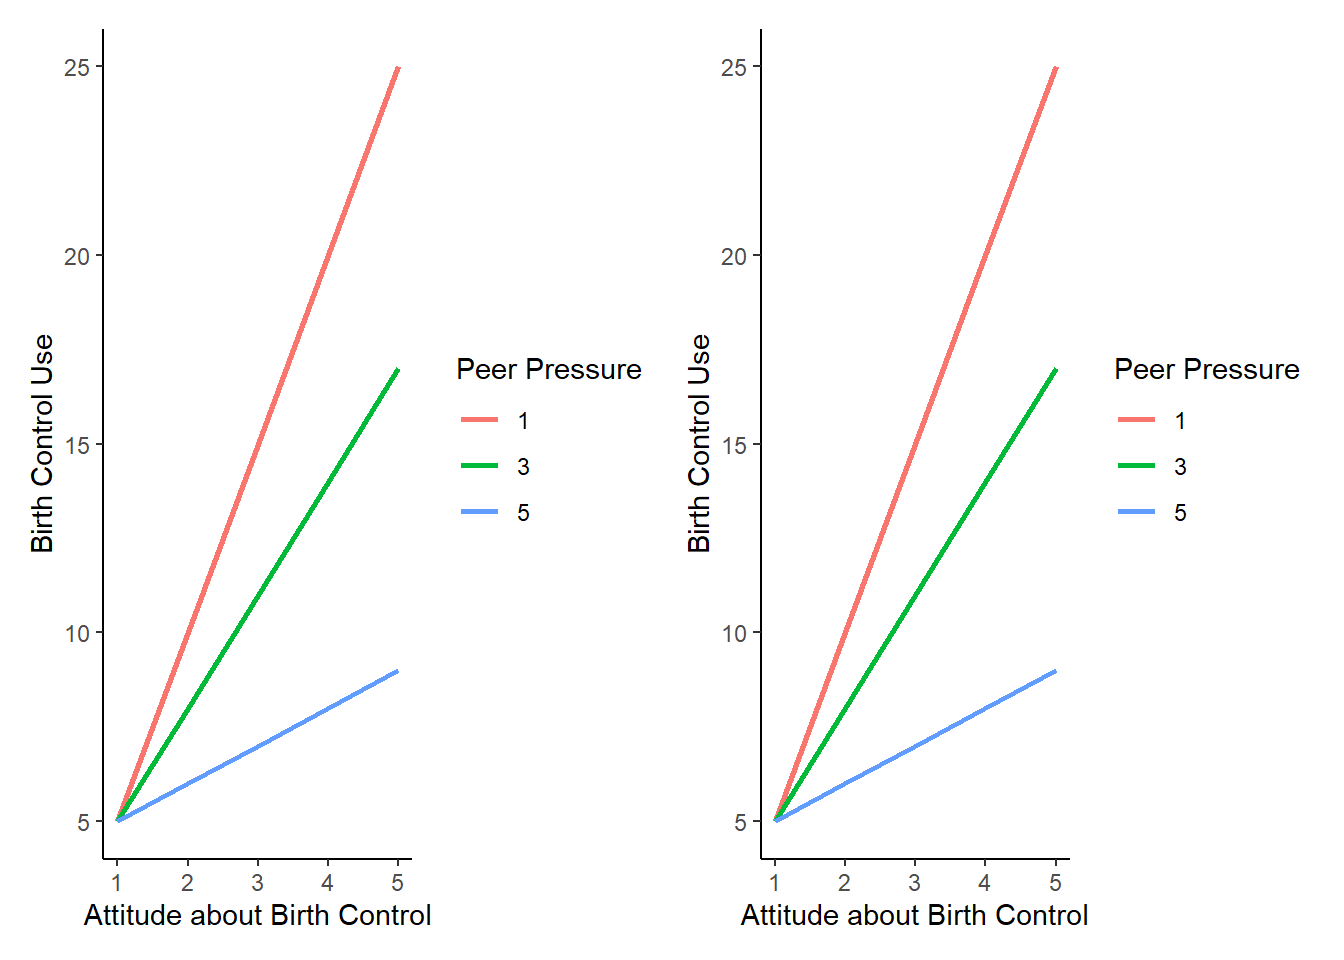
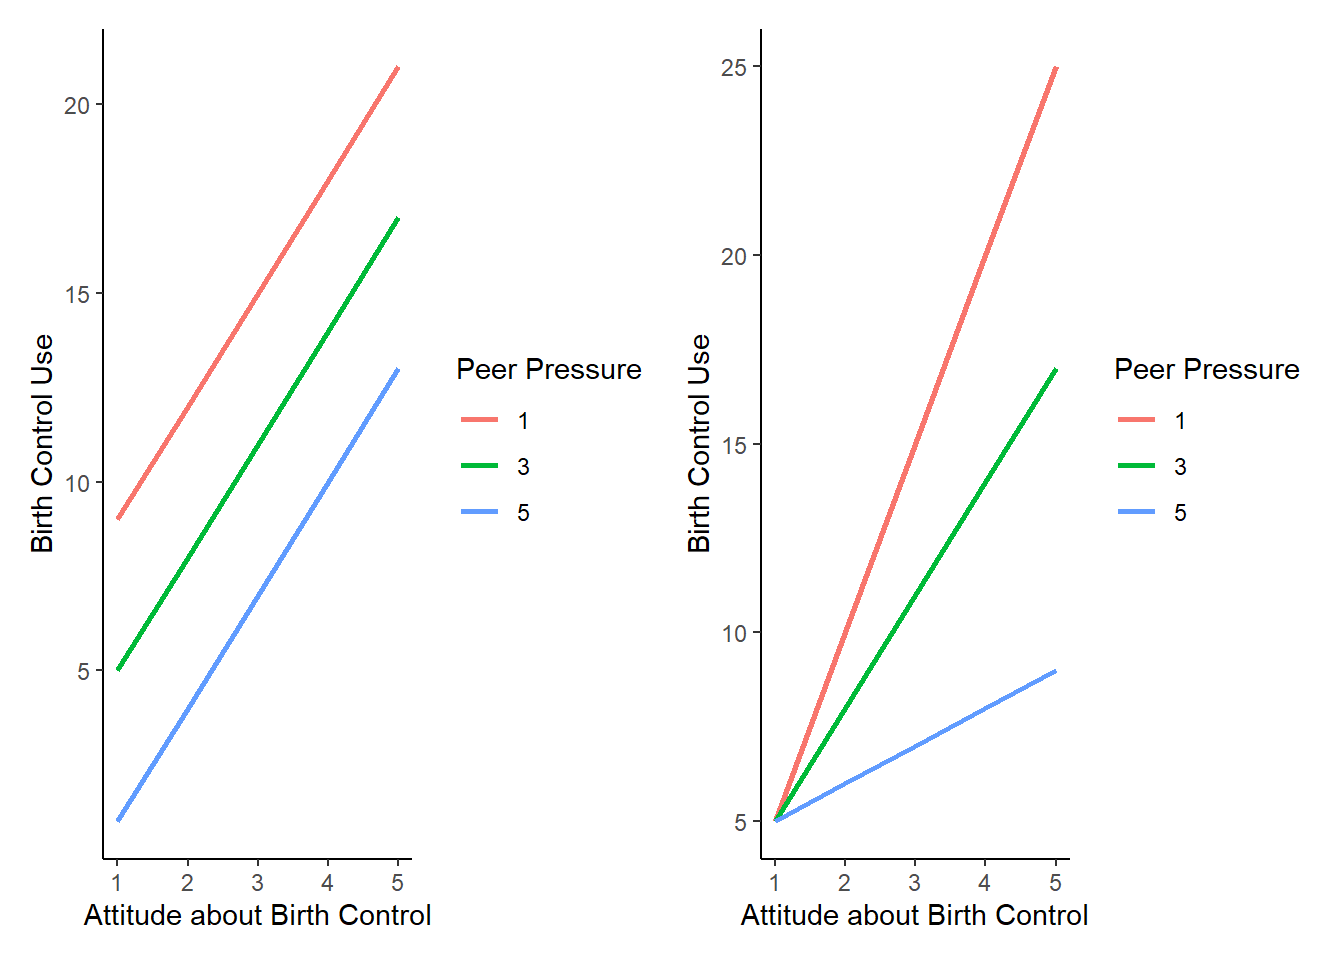
Built site for gh-pages

diff --git a/10_interactions_two_continuous.html b/10_interactions_two_continuous.html
@@ -698,15 +698,18 @@ bc  0.75 -0.5  1.00</code></pre>
 </div>
 </div>
 <hr>
+<p><span class="math inline">\(\text{BC} = 11.0 + 3.0 * \text{Att}_c + -2.0*\text{PP}_c\)</span></p>
+<p><span class="math inline">\(\text{BC} = 11.0 + 3.0 * \text{Att}_c + -2.0*\text{PP}_c + -1.0*\text{Att}_c*\text{PP}_c\)</span></p>
+<p><span style="color: red;">Link intercepts and coefficients from each model to their respective figures. Note: figures use raw (not centered) predictors. Means for both predictors are 3.</span></p>
 <div class="cell">
 <details class="code-fold">
 <summary>Code</summary>
 <div class="sourceCode cell-code" id="cb36"><pre class="sourceCode r code-with-copy"><code class="sourceCode r"><span id="cb36-1"><a href="#cb36-1" aria-hidden="true" tabindex="-1"></a>m_int <span class="ot">&lt;-</span> <span class="fu">lm</span>(bc <span class="sc">~</span> att <span class="sc">*</span> pp, <span class="at">data =</span> data)</span>
 <span id="cb36-2"><a href="#cb36-2" aria-hidden="true" tabindex="-1"></a></span>
-<span id="cb36-3"><a href="#cb36-3" aria-hidden="true" tabindex="-1"></a>preds_y <span class="ot">&lt;-</span> <span class="fu">predict</span>(m_int, <span class="at">newdata =</span> preds)</span>
+<span id="cb36-3"><a href="#cb36-3" aria-hidden="true" tabindex="-1"></a>preds_int_y <span class="ot">&lt;-</span> <span class="fu">predict</span>(m_int, <span class="at">newdata =</span> preds)</span>
 <span id="cb36-4"><a href="#cb36-4" aria-hidden="true" tabindex="-1"></a></span>
 <span id="cb36-5"><a href="#cb36-5" aria-hidden="true" tabindex="-1"></a>plot_m_int <span class="ot">&lt;-</span> <span class="fu">ggplot</span>() <span class="sc">+</span></span>
-<span id="cb36-6"><a href="#cb36-6" aria-hidden="true" tabindex="-1"></a>  <span class="fu">geom_line</span>(<span class="fu">aes</span>(<span class="at">x =</span> preds<span class="sc">$</span>att, <span class="at">y =</span> preds_y, <span class="at">color =</span> <span class="fu">factor</span>(preds<span class="sc">$</span>pp)), </span>
+<span id="cb36-6"><a href="#cb36-6" aria-hidden="true" tabindex="-1"></a>  <span class="fu">geom_line</span>(<span class="fu">aes</span>(<span class="at">x =</span> preds<span class="sc">$</span>att, <span class="at">y =</span> preds_int_y, <span class="at">color =</span> <span class="fu">factor</span>(preds<span class="sc">$</span>pp)), </span>
 <span id="cb36-7"><a href="#cb36-7" aria-hidden="true" tabindex="-1"></a>            <span class="at">linewidth =</span> <span class="dv">1</span>) <span class="sc">+</span></span>
 <span id="cb36-8"><a href="#cb36-8" aria-hidden="true" tabindex="-1"></a>  <span class="fu">labs</span>(<span class="at">x =</span> <span class="st">"Attitude about Birth Control"</span>,</span>
 <span id="cb36-9"><a href="#cb36-9" aria-hidden="true" tabindex="-1"></a>       <span class="at">y =</span> <span class="st">"Birth Control Use"</span>,</span>
@@ -722,6 +725,7 @@ bc  0.75 -0.5  1.00</code></pre>
 </div>
 </div>
 </div>
+<hr>
 
 
 </section>
